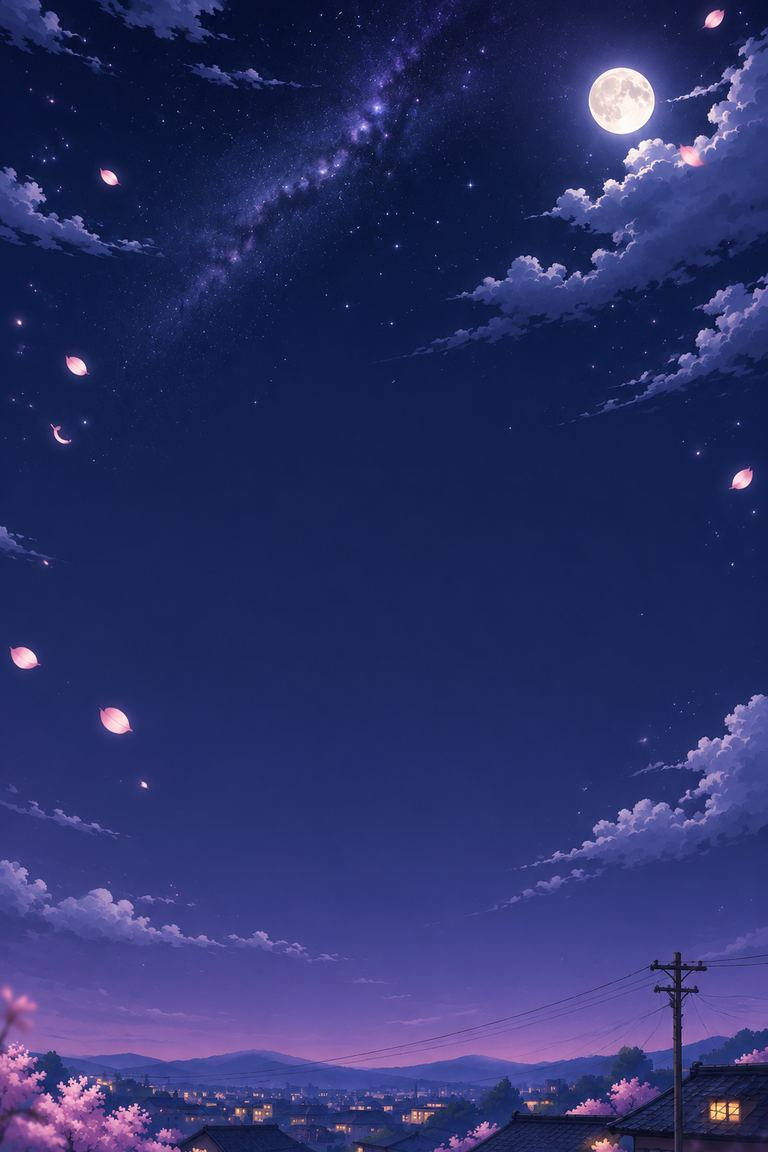
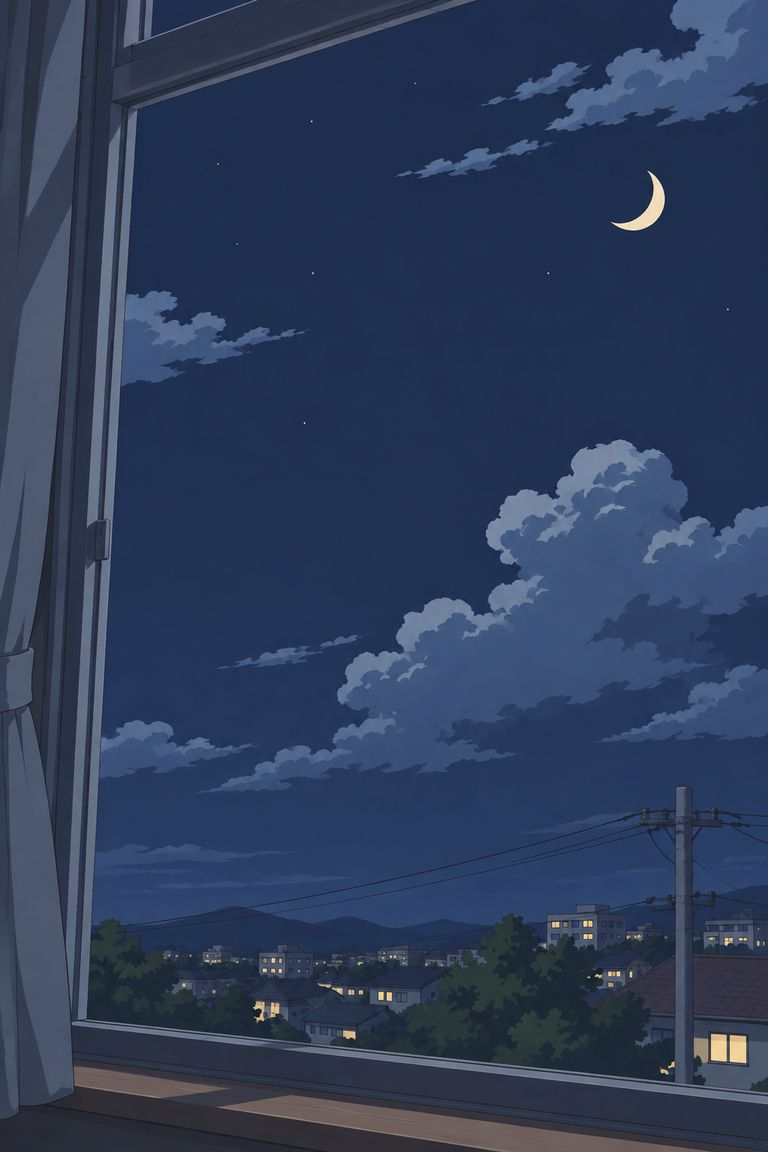
feat(skin): 放学后主题改成原创美少女 + 不像 AI 的平涂画风，主题里不再有水豚
用户：二次元不是水豚，要美少女，画风必须不像 AI。女主、15 个物件图标、白天/夜晚
教室窗外背景全部重画（ChatGPT 对话生图，brief 写死二阶硬阴影、手绘线、少色、无发光）。
第一版女主太像平泽唯，已废。界面去掉渐变和星星，大卡改平涂 + 漫画网点。
背单词翻面前女主站在空白答案区，台词框是「想一想…」。工具格藏水豚变体退回皮肤本体，
小路和加载的走路水豚在这套里隐藏。

diff --git a/frontend/src/skins-anime.css b/frontend/src/skins-anime.css
@@ -2,7 +2,11 @@
    风格主题：放学后（theme-anime）—— 二次元试做（2026-11-05，用户：「做一套足够二次元的前端，先试主页、tab 栏、背单词页」）
 
    语言：晴空背景图 + 白卡深藏青粗描边 + 硬投影（像手游 UI 的立牌）、樱粉 / 天蓝 / 柚子黄三色、圆体字、
-   大字白描边。图（水手服水豚、底栏 8 格、背景）是 ChatGPT 对话生图，在 public/brand/sheet-anime/。
+   大字白描边、漫画网点（screentone）。图（原创美少女、底栏 + 工具格物件、背景）是 ChatGPT 对话生图，在 public/brand/sheet-anime/。
+
+   ⚠ 用户 2026-11-05 第二轮的两条硬要求：① 不要水豚（二次元 = 美少女，第一版画了水手服水豚被否）；
+      ② 画风必须不像 AI。所以这里不用渐变大色块、满屏星星闪光、发光阴影 —— 那是 AI 图 / AI 界面的味道；
+      装饰只用平涂色 + 网点 + 硬边投影。生图 brief 里写死「二阶硬阴影、手绘粗细线、≤8 色、不要光泽/发光/粒子」。
 
    ⚠ 只进网页包（main.tsx 引入）：小程序主包只剩几百字节，skins.css 已经在 Taro 主包里，这份不能塞进去。
       小程序要上这套，先过分包 / 远程样式那一关（见 docs/claude/release-and-deployment.md 主包那节）。
@@ -77,7 +81,11 @@ html[data-skin="theme-anime"] .zoo-tray-today { background: transparent !importa
 html[data-skin="theme-anime"] :is(.zoo-tray-title, .zoo-duo-kick) {
   color: var(--an-pink-lip) !important; font-weight: 900;
 }
-html[data-skin="theme-anime"] .zoo-tray-title::before { content: "✦ "; color: var(--an-yuzu-lip); }
+/* 小标题前一小块粉色色签，代替星星 */
+html[data-skin="theme-anime"] .zoo-tray-title::before {
+  content: ""; display: inline-block; width: 4px; height: 12px; margin-right: 6px; vertical-align: -1px;
+  border-radius: 2px; background: var(--an-pink);
+}
 /* 问候语：白字藏青描边 + 粉色投影，像番剧标题卡 */
 html[data-skin="theme-anime"] .zoo-greet-hi {
   color: #fff !important;
@@ -89,12 +97,11 @@ html[data-skin="theme-anime"] .zoo-greet-sub {
   background: var(--an-card); color: var(--ds-ink-2) !important; font-weight: 700;
 }
 
-/* 今日大卡：粉 → 薰衣草 → 天蓝的渐变 + 星点，水手服水豚放大压在右边 */
+/* 今日大卡：平涂樱粉 + 右下角一片漫画网点（越往角上点越大），美少女压在右边、头出框 */
 html[data-skin="theme-anime"] .zoo-now {
   background:
-    radial-gradient(circle at 18% 22%, rgba(255, 255, 255, .9) 0 1.5px, transparent 2.5px) 0 0 / 46px 46px,
-    radial-gradient(circle at 70% 64%, rgba(255, 255, 255, .7) 0 1px, transparent 2px) 0 0 / 34px 34px,
-    linear-gradient(135deg, #FF8CC0 0%, #B79CFF 55%, #6CC6FF 100%) !important;
+    radial-gradient(circle, rgba(44, 52, 112, .16) 0 1.6px, transparent 2px) 0 0 / 8px 8px,
+    #FF8DBE !important;
   color: #fff !important;
   border: 2.5px solid var(--an-navy) !important;
   box-shadow: 0 6px 0 var(--an-navy), 0 22px 40px -18px rgba(44, 52, 112, .6) !important;
@@ -102,11 +109,12 @@ html[data-skin="theme-anime"] .zoo-now {
   min-height: 176px;
 }
 html[data-skin="theme-anime"] .zoo-now:active { transform: translateY(3px); box-shadow: 0 3px 0 var(--an-navy) !important; }
+/* 网点只铺右下那一半：用一块和底同色、往左上渐隐的遮罩盖住左上角，字落在干净的平涂上 */
 html[data-skin="theme-anime"] .zoo-now::after {
-  content: "★"; top: 10px; right: auto; left: 54%; width: auto; height: auto;
-  background: none; color: var(--an-yuzu); font-size: 22px; line-height: 1;
-  text-shadow: 0 0 10px rgba(255, 255, 255, .9);
+  inset: 0; right: 0; top: 0; width: auto; height: auto; border-radius: 0; z-index: 0;
+  background: linear-gradient(120deg, #FF8DBE 42%, rgba(255, 141, 190, 0) 78%);
 }
+html[data-skin="theme-anime"] .zoo-now > :not(.zoo-now-mascot) { position: relative; z-index: 1; }
 html[data-skin="theme-anime"] .zoo-now-kick {
   justify-self: start; padding: 2px 10px; border-radius: 999px;
   background: var(--an-navy); color: #fff; opacity: 1;
@@ -117,12 +125,15 @@ html[data-skin="theme-anime"] .zoo-now-num {
   text-shadow: 0 4px 0 var(--an-navy);
 }
 html[data-skin="theme-anime"] :is(.zoo-now-sub, .zoo-now-split) { opacity: 1; text-shadow: 0 1px 0 rgba(44, 52, 112, .55); font-weight: 800; }
+/* 立绘是腰部截断的半身像：贴着卡底边放，截断线藏在卡的边框里，不然像浮在半空的半截人。
+   进度条和「开始」键压在她身前（z-index 更高），像番剧 OP 里人物站在字幕后面 */
 html[data-skin="theme-anime"] .zoo-now-mascot {
-  height: 132px !important; margin: -14px -14px -6px 0;
-  filter: drop-shadow(0 4px 0 rgba(44, 52, 112, .35));
+  position: absolute !important; right: -6px; bottom: 0; z-index: 0 !important;
+  height: 196px !important; margin: 0; animation: none;
+  grid-row: auto; grid-column: auto; max-width: none; /* 绝对定位的 grid 子项会拿 grid 区域当包含块（右栏只有 18px 宽），要放掉 */
 }
 html[data-skin="theme-anime"] .zoo-now-bar { height: 10px; background: rgba(255, 255, 255, .45); border: 2px solid var(--an-navy); }
-html[data-skin="theme-anime"] .zoo-now-bar i { background: linear-gradient(90deg, var(--an-yuzu), #FFF08A); opacity: 1; }
+html[data-skin="theme-anime"] .zoo-now-bar i { background: var(--an-yuzu); opacity: 1; }
 html[data-skin="theme-anime"] .zoo-now-cta {
   background: var(--an-yuzu); color: var(--an-navy);
   border: 2px solid var(--an-navy); box-shadow: 0 3px 0 var(--an-navy); font-weight: 900;
@@ -141,12 +152,8 @@ html[data-theme="dark"][data-skin="theme-anime"] .app-mobile-tabbar { background
 html[data-skin="theme-anime"] .app-tab { color: var(--ds-ink-3); font-weight: 800; }
 html[data-skin="theme-anime"] .app-tab-icon { height: 34px !important; }
 html[data-skin="theme-anime"] .app-tab.is-active .app-tab-pill {
-  position: relative;
-  background: linear-gradient(180deg, #FFD3E7, #FFB1D4) !important;
+  background: #FFD3E7 !important;
   box-shadow: inset 0 0 0 2px var(--an-pink-lip);
-}
-html[data-skin="theme-anime"] .app-tab.is-active .app-tab-pill::after {
-  content: "✦"; position: absolute; top: -6px; right: -4px; color: var(--an-yuzu-lip); font-size: 13px;
 }
 html[data-skin="theme-anime"] .app-tab.is-active .app-tab-label { color: var(--an-pink-lip); }
 
@@ -176,15 +183,15 @@ html[data-theme][data-skin="theme-anime"] .zoo-rate-row > button.rate-btn {
   text-shadow: 0 1.5px 0 rgba(44, 52, 112, .55);
   box-shadow: 0 4px 0 var(--an-navy) !important;
 }
-html[data-theme][data-skin="theme-anime"] .zoo-rate-row > button.rate-btn.rate-forgot { background: linear-gradient(180deg, #FF8FBF, var(--an-pink)) !important; }
-html[data-theme][data-skin="theme-anime"] .zoo-rate-row > button.rate-btn.rate-fuzzy { background: linear-gradient(180deg, #FFE27A, var(--an-yuzu)) !important; color: #3A2A00 !important; text-shadow: none; }
-html[data-theme][data-skin="theme-anime"] .zoo-rate-row > button.rate-btn.rate-know { background: linear-gradient(180deg, #7CCBFF, var(--an-sky)) !important; }
-html[data-theme][data-skin="theme-anime"] .zoo-rate-row > button.rate-btn.rate-known_forever { background: linear-gradient(180deg, #7BE6C2, var(--an-mint)) !important; color: #14324A !important; text-shadow: none; }
+html[data-theme][data-skin="theme-anime"] .zoo-rate-row > button.rate-btn.rate-forgot { background: var(--an-pink) !important; }
+html[data-theme][data-skin="theme-anime"] .zoo-rate-row > button.rate-btn.rate-fuzzy { background: var(--an-yuzu) !important; color: #3A2A00 !important; text-shadow: none; }
+html[data-theme][data-skin="theme-anime"] .zoo-rate-row > button.rate-btn.rate-know { background: var(--an-sky) !important; }
+html[data-theme][data-skin="theme-anime"] .zoo-rate-row > button.rate-btn.rate-known_forever { background: var(--an-mint) !important; color: #14324A !important; text-shadow: none; }
 html[data-skin="theme-anime"] .zoo-rate-row > button span { color: inherit !important; opacity: .8; }
 html[data-skin="theme-anime"] .zoo-rate-row > button:active { transform: translateY(3px); box-shadow: 0 1px 0 var(--an-navy) !important; }
 /* 「显示答案」等主键：粉色糖果键 */
 html[data-skin="theme-anime"] .bg-\[\#81D8CF\]:not(.app-mobile-tabbar *) {
-  background: linear-gradient(180deg, #FF8FBF, var(--an-pink)) !important;
+  background: var(--an-pink) !important;
   color: #fff !important;
   border: 2.5px solid var(--an-navy) !important;
   box-shadow: 0 4px 0 var(--an-navy) !important;
@@ -192,3 +199,25 @@ html[data-skin="theme-anime"] .bg-\[\#81D8CF\]:not(.app-mobile-tabbar *) {
   text-shadow: 0 1.5px 0 rgba(44, 52, 112, .5);
 }
 html[data-skin="theme-anime"] .bg-\[\#81D8CF\]:not(.app-mobile-tabbar *) * { color: inherit !important; }
+
+/* ---------- 这一套里不出现水豚 ---------- */
+/* 学习页顶上小路的走路水豚换成一颗粉色圆点；「正在取下一张」那只直接不画 */
+html[data-skin="theme-anime"] .mascot-walk { display: none !important; }
+html[data-skin="theme-anime"] .zoo-trail-squirrel:not(:has(.zoo-trail-marker-clip))::before {
+  content: ""; display: block; width: 12px; height: 12px; margin-top: 3px; border-radius: 50%;
+  background: var(--an-pink); border: 2px solid var(--an-navy);
+}
+
+/* 翻面前答案区是空的：女主站在空白里，下面一句「想一想…」像她说的台词。翻面后这块整个换成答案，她自然消失。
+   ⚠ 不放在题面上方、不压题面 —— 那一屏最大的字必须是题面（WordStudy 同处注释） */
+html[data-skin="theme-anime"] .word-think { display: flex; flex-direction: column; align-items: center; }
+html[data-skin="theme-anime"] .word-think::before {
+  content: ""; display: block; width: 180px; height: 230px; margin-bottom: 4px;
+  background: url("/brand/sheet-anime/mood-default.png") center bottom / contain no-repeat;
+  border-bottom: 2px solid rgba(255, 111, 174, .5);
+}
+html[data-skin="theme-anime"] .word-think > p {
+  padding: 6px 14px; border-radius: 14px; border: 2px solid var(--an-navy);
+  background: #fff; color: var(--an-navy) !important; font-weight: 800; box-shadow: 0 3px 0 var(--an-navy);
+}
+html[data-theme="dark"][data-skin="theme-anime"] .word-think > p { background: #2A2F66; color: #F1F0FF !important; border-color: #6E74C8; box-shadow: 0 3px 0 #0B0E2C; }

diff --git a/frontend/src/lib/mascot-skins.ts b/frontend/src/lib/mascot-skins.ts
@@ -13,8 +13,14 @@ export const MASCOT_SKINS = {
   },
   // 二次元风格主题「放学后」自带的一套图（2026-11-05 试做，ChatGPT 对话生图）：不是 mascot 槽位的商品，
   // 装备 theme-anime 且没装别的吉祥物时由 yuzu.applyYuzuEquipment 顺带套上。
+  // 主角是原创美少女，这一套里**没有水豚**（用户原话「二次元理解错了，不要水豚，要美少女」）：
+  // tab-* 选中格和 nav-* 是同一批物件图，tool-*-capy 藏水豚变体由 stickerUrl 退回 tool-*。
   "theme-anime": {
     dir: "sheet-anime",
-    names: ["mood-default", "nav-home", "nav-word", "nav-grammar", "nav-profile", "tab-home", "tab-study", "tab-grammar", "tab-me"]
+    names: [
+      "mood-default", "nav-home", "nav-word", "nav-grammar", "nav-profile", "tab-home", "tab-study", "tab-grammar", "tab-me",
+      "tool-modes", "tool-grammar", "tool-wordlist", "tool-confusion", "tool-talk", "tool-jlpt", "tool-kanji-readings",
+      "tool-favorites", "tool-vocab-test", "tool-shop", "tool-team"
+    ]
   }
 } as const;

diff --git a/frontend/src/pages/WordStudy.tsx b/frontend/src/pages/WordStudy.tsx
@@ -2228,8 +2228,9 @@ export const WordStudy = ({ initialMode = "classic", onDailyModeComplete, onStub
                   <p className="mt-5 text-sm font-semibold text-white/52">点一下，显示汉字读音</p>
                 </div>
               ) : (
-                <div>
-                  {/* 翻面前这一屏最大的字必须是题面（在卡片上方），这里只留一句小提示；「答案已隐藏」大字是废话 */}
+                <div className="word-think">
+                  {/* 翻面前这一屏最大的字必须是题面（在卡片上方），这里只留一句小提示；「答案已隐藏」大字是废话。
+                      word-think 只是给风格主题挂图的钩子（放学后主题在这里站一张立绘），默认样式不用它 */}
                   {!listening.active && <p className="text-sm text-white/55">{isReversePhase ? "想一想中文意思" : "想一想怎么读、怎么写"}</p>}
                 </div>
               )}

diff --git a/frontend/src/components/CapybaraMascot.tsx b/frontend/src/components/CapybaraMascot.tsx
@@ -99,6 +99,9 @@ export const stickerUrl = (name: StickerName, skinId = skin) => {
   const sheet = SKIN_SHEETS[skinId];
   if (!sheet) return brandAssetUrl(`sheet/${name}.png`);
   if (sheet.names.has(name)) return brandAssetUrl(`${sheet.dir}/${name}.png`);
+  // 「藏水豚」变体（tool-*-capy 等）：皮肤有本体就用本体 —— 不然换了皮肤，工具格里会随机冒出原画水豚
+  const base = name.endsWith("-capy") ? name.slice(0, -5) : "";
+  if (base && sheet.names.has(base)) return brandAssetUrl(`${sheet.dir}/${base}.png`);
   // scene-*（主页大卡按时段换的那几张）同理：皮肤没画就用皮肤的默认表情，不退回水豚原图（2026-11-05 补，以前鳄鱼皮肤这里会冒出水豚）
   if (name.startsWith("mood-") || name.startsWith("scene-")) return brandAssetUrl(`${sheet.dir}/mood-default.png`);
   return brandAssetUrl(`sheet/${name}.png`);

diff --git a/docs/claude/interface-and-design-system.md b/docs/claude/interface-and-design-system.md
@@ -957,7 +957,7 @@ App 里没有接微信 OpenSDK（没有开放平台移动应用 AppID、Universa
 
 - **做成柚子商店的第三件「质感主题」**，不是改默认外观：`yuzu-catalog.ts` 加 `theme-anime`（放学后，3000 柚子），
   样式在 `src/skins-anime.css`，图在 `public/brand/sheet-anime/`。默认皮肤一个像素都不动。
-- **图从哪来**：Chrome 里的 chatgpt.com「聊天」模式（不是 Codex）出了 4 张：水手服 Q 版水豚立绘（透明底）、
+- **图从哪来**（⚠ 这一条是第一轮的，已被下面「第二轮」取代，水豚图全部撤掉了）：Chrome 里的 chatgpt.com「聊天」模式（不是 Codex）出了 4 张：水手服 Q 版水豚立绘（透明底）、
   底栏 2×4 图标合集（第一行物件、第二行水豚抱物件，透明底）、白天 / 夜晚两张竖版天空背景。
   原图（未压缩）留在 `~/Documents/shushugo-wt/_anime-originals/`。切图：按 4×2 等分格子、按 alpha 裁边、缩到 256 高、pngquant；背景缩到 768×1152 JPEG q78（60–70 KB）。
   ⚠ 网页上的生成图是 `blob:` 地址，下载靠页面里 `fetch(blob)` + `<a download>`；Chrome 会停在 `~/Downloads/.com.google.Chrome.*` 临时文件（等「另存为」），直接拷那个临时文件就是完整 PNG。
@@ -978,3 +978,31 @@ App 里没有接微信 OpenSDK（没有开放平台移动应用 AppID、Universa
 1. 小程序：商店里会出现「放学后」但没有样式 —— 要么小程序隐藏这件，要么把样式做成分包 / 远程样式、图包传到 skinBaseUrl。
 2. 主页「学习工具」11 格、组队 / 邀请小图还是原来的软萌画风，和二次元水豚并排不统一；要统一得再出一张工具图合集。
 3. 只做了主页、底栏、背单词卡；语法页、我的页、完成页走的是变量（粉主色、藏青字），没逐页看。
+
+### 第二轮（同日）：不要水豚，要美少女；画风必须不像 AI
+
+用户看了第一轮原话：「二次元这个词理解错了，不要水豚！要美少女，而且画风必须要不像 ai」。
+⚠ 这和 [[capybara-is-protagonist]]（水豚是主角）不冲突：那条管默认外观和品牌位；这套是用户点名要的另一种画风的主题，**主题里一只水豚都不许有**。
+
+- **主角**：原创女高中生 —— 黑长直右侧低马尾（柚子黄发圈）、深绿眼、白水手服 + 浅灰宽松开衫、抹茶绿领巾，举着圆环单词卡比 OK。
+  ⚠ 第一张出来的是棕色短发 + 黄发夹 + 藏青西装红领带，**太像《轻音少女》平泽唯**，废掉重画（原图留在 `_anime-originals/girl-v1-too-like-yui.png` 只作记录，不许用）。
+  以后加表情 / 姿势，造型要以这张为准，并且每张出来都先对照有没有撞已有作品的角色。
+- **「不像 AI」怎么写进生图 brief**（这次实测有效，画风一次就对）：要像 2000 年代末～2010 年代 TV 动画的官方设定稿 / 原画；
+  赛璐璐平涂只有一层硬边阴影、没有柔和渐变和磨皮；手绘线粗细有变化；整张 ≤8 种主色（图标每个 ≤4 种）；
+  不要光泽高光 / 发光 / 光晕 / 闪光粒子 / 景深；头发分大块面不画细发丝；眼睛一块主高光 + 一个小高光、不要宝石眼；五官不要过度精致。
+  背景：「动画美术监督手绘的背景（水彩 + 平涂色块），云用两三层平涂色块画体积，不要体积光、镜头光晕、照片级细节」。
+  第一轮那种「星星高光眼、闪光、高饱和渐变」就是 AI 味的来源。
+- **界面也去 AI 味**：大卡从粉→紫→蓝渐变 + 满屏星点，改成平涂樱粉 + 右下角漫画网点（screentone）；评分键、按钮、进度条全部平涂不渐变；
+  小标题前的 ✦ 改成一小块粉色色签；底栏选中格不再有星星。
+- **图**（全在 `public/brand/sheet-anime/`，合计约 550 KB）：`mood-default`（女主半身立绘，主页大卡 + 背单词空白区共用）、
+  15 个物件图标一张 3×5 合集切出来（`nav-*` 四个 = 底栏，`tab-*` 是 `nav-*` 的拷贝，因为 `AppNavigation` 装了皮肤后选中格读 `tab-*`；
+  `tool-*` 11 个 = 主页学习工具 + 组队小旗）、`bg-day.jpg` / `bg-night.jpg`（放学后的教室窗外，白天 / 夜晚）。
+  图标统一垫成 256×256 正方形透明底 —— `Sticker` 按高度定尺寸，不垫的话宽扁的图标会显得大一号。
+  切格子会把相邻格子伸过来的边角切进来（收藏书签旁边出现一截直尺）：那一格按「最大的一段非空列」再裁一次。
+- **水豚都在哪、怎么拿掉的**：底栏和工具格换成物件图；工具格的「藏水豚」变体 `tool-*-capy` 由 `stickerUrl` 退回皮肤里的 `tool-*`（新规则，对鳄鱼皮肤同样生效）；
+  学习页顶上小路的走路水豚（`.mascot-walk`）在这套里隐藏、换成一颗粉色圆点；「正在取下一张」那只走路水豚同样隐藏。
+  **还剩**：启动闪屏（`index.html` / `main.tsx` 的 `splash-sleep`、`logo-lockup`）在读库之前就画了，那时还不知道装了什么主题 —— 要拿掉得把装备记一份到 localStorage，没做。
+- **背单词页的女主**：翻面前答案区是空的，女主站在那块空白里，下面「想一想怎么读、怎么写」变成她的台词框（galgame 的感觉）；
+  翻面后这块整个换成答案，她自然消失，不和题面、答案抢。钩子是 `WordStudy.tsx` 里那个 div 加的 `word-think` 类，默认样式不用它。
+- ⚠ 主页大卡里的立绘用 `position: absolute` 贴卡底边（腰部截断线藏进卡边框）。它是 grid 子项，原本有 `grid-row/grid-column`，
+  **绝对定位的 grid 子项拿 grid 区域当包含块**，右栏只有 18px 宽，`max-width:100%` 把她压成一条缝 —— 要 `grid-row/column: auto; max-width: none`。
